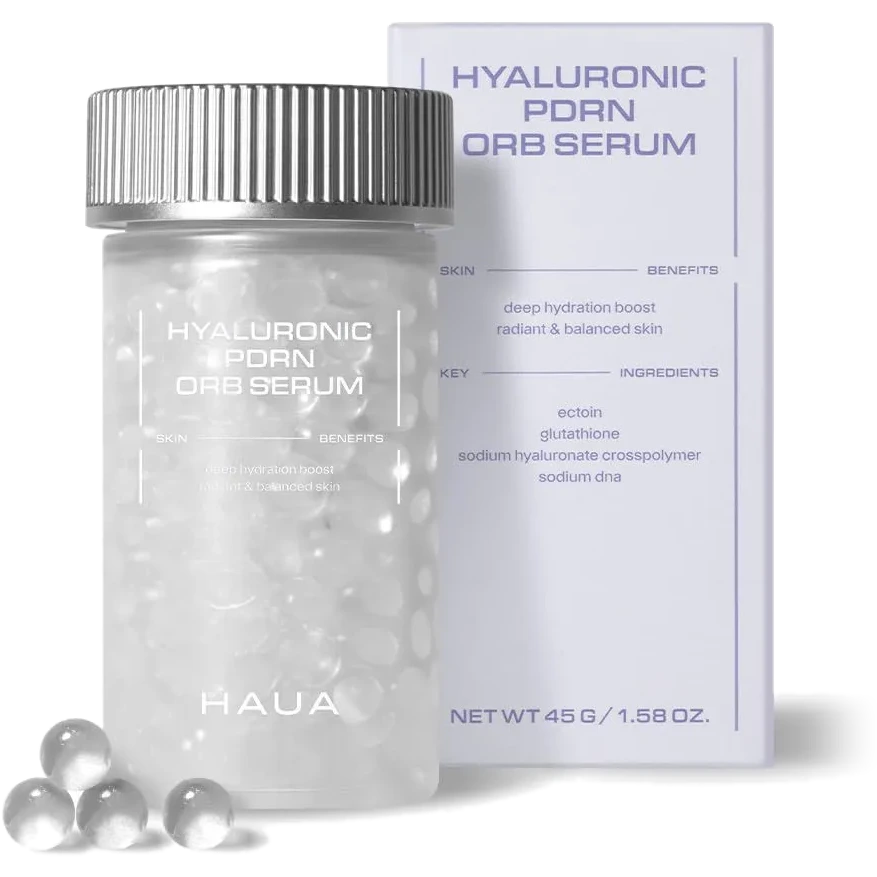
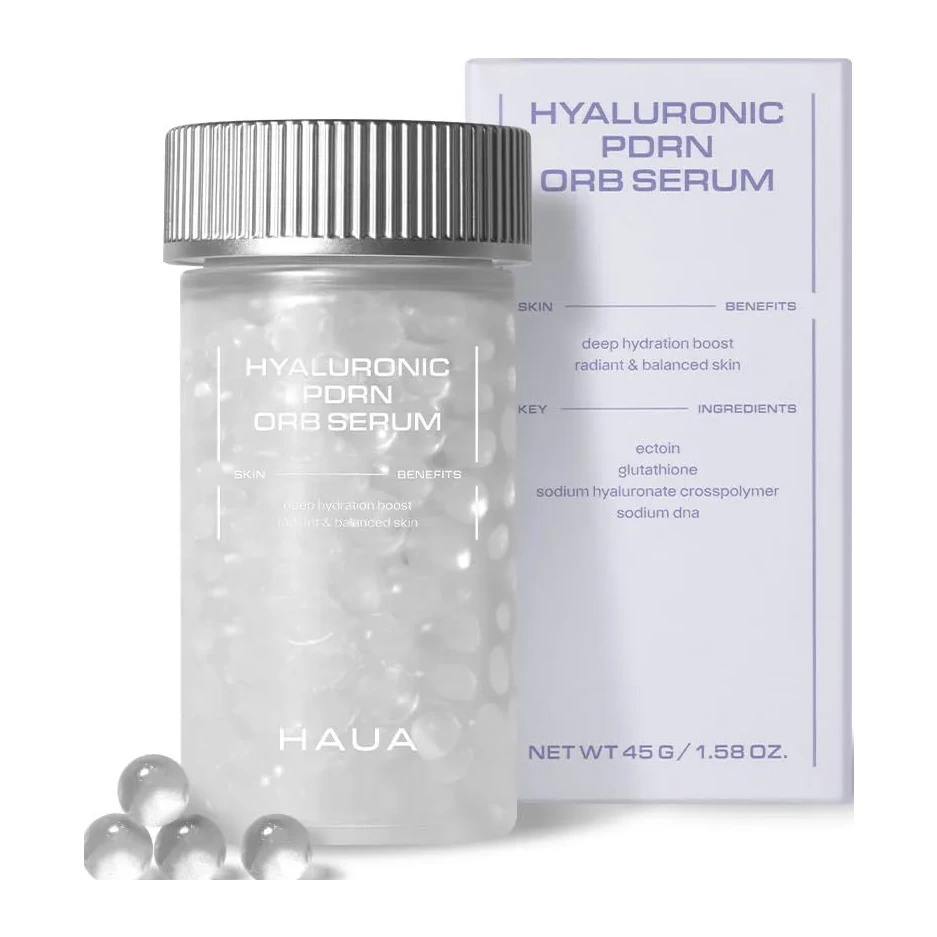
Keep the white ground; crop in so the product fills the frame
Removing the background was the wrong reading of the brief. The ask was to
make the product bigger so the white is less noticeable — not to cut the
white out, which left the cast shadow with nothing to sit on.

So the photograph is the original again, white ground and shadow exactly as
shot, cropped in to the product. The crop measures the product rather than
the content: a cast shadow is neutral grey and mid-toned, so a
chroma-or-darkness test skips it, which is the whole trick here because the
shadow runs to the right edge of the original and cropping to "everything
that isn't white" gains nothing — measured, 91.6% to 90.9%, no change worth
having. Cropping to the product instead takes it from filling 82.2% of the
frame to 87.7%, and the cut lands where the shadow has faded to near-white
so it does not show.

Frame style goes back to Soft light pool with a white fill, which spreads
the photo's own ground into the page so the square is not an edge, and
Photo size to 140%.

scripts/crop-packshot.mjs is the tool, kept alongside the cut-out one so
either treatment can be reproduced for a future photograph.

Checks: theme check 0 errors, validate-theme.py 0 failures, contrast 81
elements 0 failures.

Claude-Session: https://claude.ai/code/session_01WEDkxJAuc3LT2UERGj8QSu

diff --git a/STATUS.md b/STATUS.md
@@ -121,15 +121,19 @@ returns the page to a flat colour exactly.
 Depth is a soft violet halo rather than a grey drop shadow; silver is drawn as
 gradient metal rather than flat grey.
 
-**Photography.** The hero ships a cut-out packshot as a theme asset,
-`assets/hero-packshot.webp` — product media 5 with its white studio ground
-removed, so it sits on the page with no edge to blend rather than a rectangle
-to disguise. The source file is kept in `design/source-photos/`. The removal
-flood-fills inward from the edges rather than thresholding on colour, which is
-what preserves the white lettering, the orbs and the cap highlight; a global
-threshold erases them, and no blend mode can separate a near-white product from
-a white ground. **Bundled packshot** points at the asset — clear it to fall back
-to the product's own photo, or upload a **Poster image** to override both.
+**Photography.** The hero ships `assets/hero-packshot.webp` — product media 5,
+cropped in to the product so it fills the frame. **The white studio ground and
+the shadow are kept exactly as shot.** An earlier version had the white removed
+entirely; that was wrong, because the cast shadow then had nothing to sit on and
+read as floating. The source file is in `design/source-photos/` and
+`scripts/crop-packshot.mjs` is the tool.
+
+The crop measures the *product*, not the content: a cast shadow is neutral grey
+and mid-toned, so a chroma-or-darkness test skips it. That matters here because
+the shadow runs all the way to the right edge of the original — cropping to
+"everything that isn't white" would have gained nothing at all. Measured, the
+product goes from filling 82.2% of the frame to 87.7%, and the crop lands where
+the shadow has already faded to near-white so the cut does not show.
 
 **Frame style** decides what is drawn behind: None for a cut-out (nothing, which
 is the default), Soft light pool for a photo still on white, Panel with a silver
